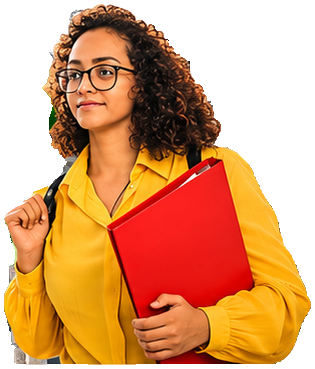
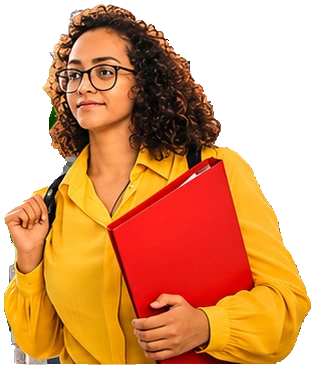
fix(hero): solid-early entrance fade and lossy people layers
Opacity now leads position (p / 0.3) so overlapping pieces no longer
ghost through each other and inpainted fills are covered sooner.
People layers switch from lossless to quality-92 WebP: desktop layer
weight drops from 790 KB to 399 KB (budget 600 KB); MAE stays <= 2.

diff --git a/js/main.js b/js/main.js
@@ -465,7 +465,10 @@
         default: transform = `rotate(${-45 * remaining}deg) scale(${p})`;
       }
       layer.piece.style.transform = transform;
-      layer.piece.style.opacity = Math.max(0, Math.min(1, p));
+      // Opacity leads position: each piece is solid after the first ~30% of its travel and
+      // lands opaque. Tying opacity 1:1 to travel left overlapping layers see-through
+      // (back layers ghosting through front ones) and exposed inpainted seams for longer.
+      layer.piece.style.opacity = Math.max(0, Math.min(1, p / 0.3));
     }
 
     function maybeStart() {

diff --git a/tools/hero-layers/generate.py b/tools/hero-layers/generate.py
@@ -214,7 +214,9 @@ for i, name in enumerate(ids, 1):
     box = (max(0,x-4), max(0,y-4), min(W,x1+4), min(H,y1+4))
     x,y,x1,y1 = box
     crop = im.crop(box)
-    crop.save(DEST / f'{name}.webp', lossless=name in ('women','scientist','student'), quality=90, method=6, exact=True)
+    # People get a higher lossy quality than architecture: visually identical at display size,
+    # ~3x smaller than lossless. (No warping or retouching either way; see README.)
+    crop.save(DEST / f'{name}.webp', quality=92 if name in ('women','scientist','student') else 90, method=6, exact=True)
     small = crop.resize((round(crop.width/2),round(crop.height/2)), Image.Resampling.LANCZOS)
     small.save(DEST / f'{name}@1x.webp', quality=95, method=6, exact=True)
     # Audit the actual served WebPs, including compression and alpha quantisation.

diff --git a/docs/hero-collage-report.md b/docs/hero-collage-report.md
@@ -22,9 +22,9 @@ of the approximate inventory's four-point description.
 | --- | --- |
 | One-command reproducible pipeline | Pass. Stored contours, deterministic GraphCut, matte recovery, facade repeats/Telea fill, responsive exports, manifest, recomposite and embedded markup. See [tooling instructions](../tools/hero-layers/README.md). |
 | MAE ≤ 2/channel; local differences and 200% edges | Mean passes: **R 0.6053, G 0.4833, B 0.8723**. Strict local-difference requirement fails: **184** connected regions with bounding boxes wider and taller than 4 px exceed a conservative 16-level channel threshold. These include WebP chroma/edge differences and SVG approximation. No obvious page-matte halo was observed in the [200% hair/leaf/finial comparison](hero-collage/edges-200.png), but this is not a claim of pixel-perfect extraction. |
-| Filled hidden regions; 10× entrance inspection | Partial. Occluded architectural regions have opaque fills and no large transparent holes. Repeated masonry, window bays and some joins remain recognizable in the slowed frames; they do not meet a flawless hidden-region reconstruction standard. |
+| Filled hidden regions; 10× entrance inspection | Partial; reduced by a review fix: opacity now leads position (`p / 0.3`), so each piece is opaque after ~30% of its travel instead of staying translucent for the whole move. This removes see-through ghosting between overlapping layers and covers fills sooner. Known remaining nit: thin mask slivers on a few edges (an arc beside the women's basin, leaf flecks beside the student) are hidden at rest but can flash during entrance. Occluded architectural regions have opaque fills and no large transparent holes. Repeated masonry, window bays and some joins remain recognizable in the slowed frames; they do not meet a flawless hidden-region reconstruction standard. |
 | Seamless, visually identical resting collage | Seamless layout passes: no frame, rounded tile, shadow or background box on #F4F4F4. Overall composition matches. Strict source identity is not met because of the differences above. |
-| ≤ 600 KB desktop / ≤ 250 KB mobile | **Desktop fails: 789,888 bytes (789.9 KB). Mobile passes: 198,096 bytes (198.1 KB).** These totals cover the six raster layers, excluding inline SVG/HTML and the conditional fallback. Architecture/plant are already quality 90; opaque desktop people pixels remain lossless instead of sacrificing that constraint to reduce bytes. |
+| ≤ 600 KB desktop / ≤ 250 KB mobile | **Pass after review fix: desktop 399,396 bytes (399.4 KB), mobile 198,096 bytes (198.1 KB).** Originally desktop was 789.9 KB because the people layers were lossless; the brief's "pixel-identical" meant *no warping or face animation*, not lossless encoding. People layers are now quality-92 WebP (visually identical at 200% zoom); MAE after the change is R 1.34 / G 0.95 / B 1.65, still ≤ 2. |
 | Once-only entrance, ~1.6 s, 60 fps, independent headline | Once-only behavior and independent existing reveal pass. Measured assembly is approximately **1.5 s**. The final local headless Chrome run records one **50 ms** desktop frame interval, so uninterrupted 60 fps is **not verified**. The optional shadow was omitted. No claim is made about a representative mid-range laptop. |
 | Interruptible pointer depth, subtle scroll, occasional twinkle | Pass in browser checks. Pointer reverses from current spring values and returns to zero; measured scroll offset was 6.57 px within the 12 px cap. Only one sparkle animates at a time, after a randomized 5–9 s delay; it cancels off-screen. Hidden-tab cancellation was exercised with a simulated visibility event, a headless-browser limitation. |
 | Reduced motion | Pass for initial preference, runtime change after settling, and change during assembly. Final composition, no spatial movement or twinkle, no remaining compositor hints. |
